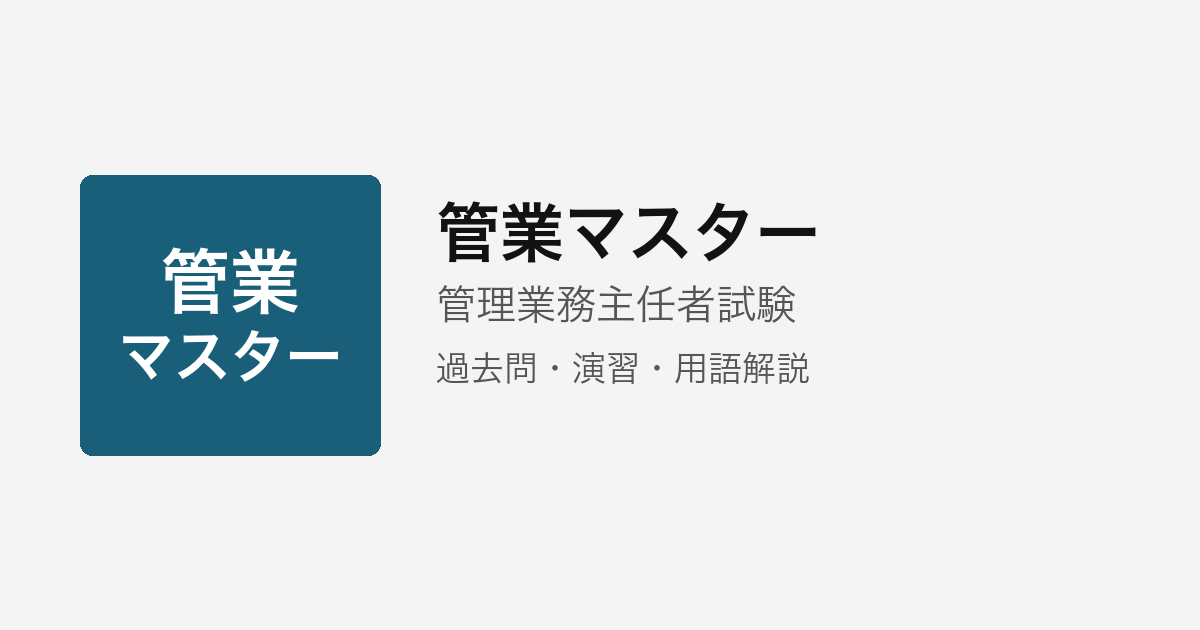
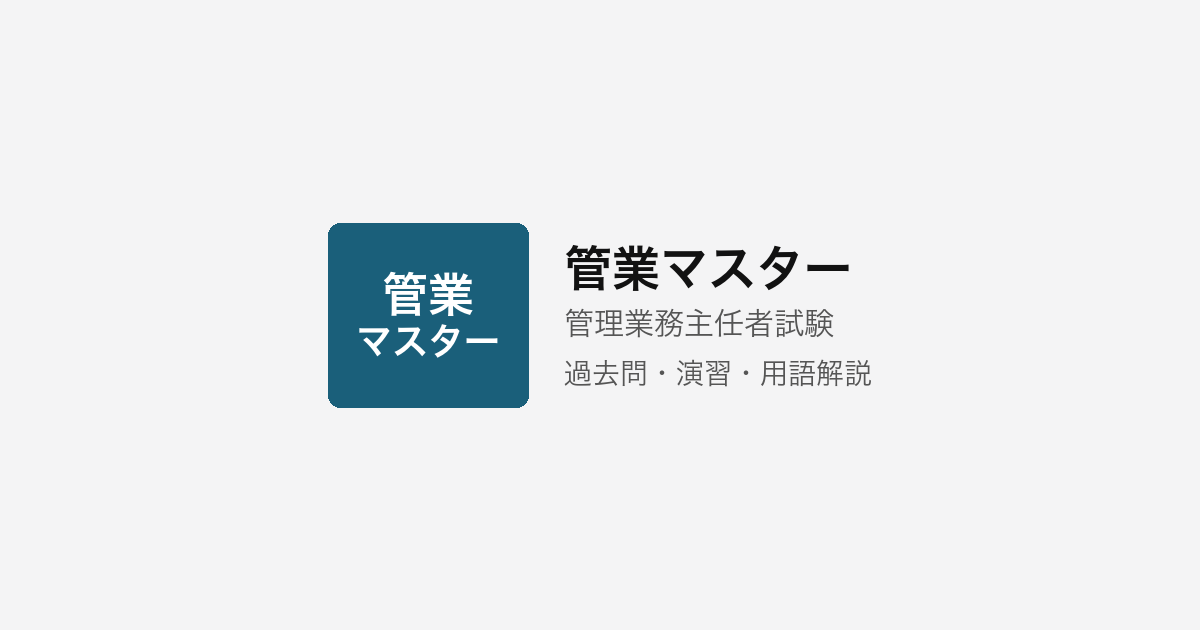
fix: OGP 画像の見切れを修正（中央安全域レイアウト）
SNS プレビューの 1:1 クロップでもロゴが切れないよう再生成した。

Changed region(s): [[0.0617, 0.2714, 0.74, 0.7238]]

diff --git a/tools/brand_assets.py b/tools/brand_assets.py
@@ -20,6 +20,10 @@ from tools.site_config import (
 
 BRAND_DIR = "assets/brand"
 MARKER = "<!--BRAND_ASSET_HEAD-->"
+OG_WIDTH = 1200
+OG_HEIGHT = 630
+# SNS の 1:1 中央クロップ（630×630）でも切れないよう、コンテンツ幅をこの範囲に収める
+OG_SAFE_WIDTH = 620
 
 
 def _font_candidates(*, bold: bool) -> list[Path]:
@@ -172,42 +176,130 @@ def render_favicon(size: int):
 def render_og_image():
     from PIL import Image, ImageDraw
 
-    w, h = 1200, 630
+    w, h = OG_WIDTH, OG_HEIGHT
     top, bottom = brand_logo_lines()
     name = brand_name()
     exam = exam_name()
+    tagline = "過去問・演習・用語解説"
     bg = theme_page_bg()
     ink = theme_ink()
-    text = theme_text()
+    text_col = theme_text()
     muted = theme_text_muted()
+
+    measure = Image.new("RGB", (w, h), bg)
+    mdraw = ImageDraw.Draw(measure)
+
+    gap = 36
+    name_gap, exam_gap = 16, 22
+    layout = None
+    for box_w in (200, 180, 160, 140, 120):
+        box_h = max(110, int(box_w * 0.92))
+        text_max_w = OG_SAFE_WIDTH - box_w - gap
+        name_font, name_size = _fit_font(mdraw, name, text_max_w, 48, bold=True)
+        exam_font, exam_size = _fit_font(mdraw, exam, text_max_w, 30, bold=False)
+        tag_font, tag_size = _fit_font(mdraw, tagline, text_max_w, 28, bold=False)
+        text_w = max(
+            mdraw.textlength(name, font=name_font),
+            mdraw.textlength(exam, font=exam_font),
+            mdraw.textlength(tagline, font=tag_font),
+        )
+        text_h = name_size + name_gap + exam_size + exam_gap + tag_size
+        content_w = box_w + gap + int(text_w)
+        content_h = max(box_h, text_h)
+        if content_w <= OG_SAFE_WIDTH:
+            layout = {
+                "box_w": box_w,
+                "box_h": box_h,
+                "gap": gap,
+                "name_font": name_font,
+                "name_size": name_size,
+                "exam_font": exam_font,
+                "exam_size": exam_size,
+                "tag_font": tag_font,
+                "tag_size": tag_size,
+                "text_h": text_h,
+                "content_w": content_w,
+                "content_h": content_h,
+            }
+            break
 
     img = Image.new("RGB", (w, h), bg)
     draw = ImageDraw.Draw(img)
 
-    box_w, box_h = 300, 280
-    box_x, box_y = 80, (h - box_h) // 2
+    if layout is None:
+        # 横並びが収まらない場合: ロゴ＋テキストを縦積みで中央配置
+        mark_w, mark_h = 220, 200
+        text_max_w = OG_SAFE_WIDTH - 40
+        name_font, name_size = _fit_font(mdraw, name, text_max_w, 44, bold=True)
+        exam_font, exam_size = _fit_font(mdraw, exam, text_max_w, 28, bold=False)
+        tag_font, tag_size = _fit_font(mdraw, tagline, text_max_w, 26, bold=False)
+        stack_gap, line_gap = 28, 14
+        content_w = int(
+            max(
+                mark_w,
+                mdraw.textlength(name, font=name_font),
+                mdraw.textlength(exam, font=exam_font),
+                mdraw.textlength(tagline, font=tag_font),
+            )
+        )
+        content_h = mark_h + stack_gap + name_size + line_gap + exam_size + line_gap + tag_size
+        block_x = (w - content_w) // 2
+        block_y = (h - content_h) // 2
+        _draw_logo_mark(
+            draw,
+            x=block_x + (content_w - mark_w) // 2,
+            y=block_y,
+            width=mark_w,
+            height=mark_h,
+            top=top,
+            bottom=bottom,
+            bg=ink,
+            fg="#ffffff",
+            radius=12,
+        )
+        ty = block_y + mark_h + stack_gap
+        draw.text((block_x + (content_w - mdraw.textlength(name, font=name_font)) / 2, ty), name, fill=text_col, font=name_font)
+        ty += name_size + line_gap
+        draw.text((block_x + (content_w - mdraw.textlength(exam, font=exam_font)) / 2, ty), exam, fill=muted, font=exam_font)
+        ty += exam_size + line_gap
+        draw.text((block_x + (content_w - mdraw.textlength(tagline, font=tag_font)) / 2, ty), tagline, fill=muted, font=tag_font)
+        return img
+
+    block_x = (w - layout["content_w"]) // 2
+    block_y = (h - layout["content_h"]) // 2
+    box_x = block_x
+    box_y = block_y + (layout["content_h"] - layout["box_h"]) // 2
+    tx = block_x + layout["box_w"] + layout["gap"]
+    ty = block_y + (layout["content_h"] - layout["text_h"]) // 2
+
     _draw_logo_mark(
         draw,
         x=box_x,
         y=box_y,
-        width=box_w,
-        height=box_h,
+        width=layout["box_w"],
+        height=layout["box_h"],
         top=top,
         bottom=bottom,
         bg=ink,
         fg="#ffffff",
         radius=12,
     )
-
-    tx = box_x + box_w + 56
-    name_font, name_size = _fit_font(draw, name, w - tx - 80, 64, bold=True)
-    exam_font, exam_size = _fit_font(draw, exam, w - tx - 80, 40, bold=False)
-    tagline = "過去問・演習・用語解説"
-    tag_font, _ = _fit_font(draw, tagline, w - tx - 80, 34, bold=False)
-
-    draw.text((tx, box_y + 24), name, fill=text, font=name_font)
-    draw.text((tx, box_y + 24 + name_size + 20), exam, fill=muted, font=exam_font)
-    draw.text((tx, box_y + 24 + name_size + 20 + exam_size + 28), tagline, fill=muted, font=tag_font)
+    draw.text((tx, ty), name, fill=text_col, font=layout["name_font"])
+    draw.text(
+        (tx, ty + layout["name_size"] + name_gap),
+        exam,
+        fill=muted,
+        font=layout["exam_font"],
+    )
+    draw.text(
+        (
+            tx,
+            ty + layout["name_size"] + name_gap + layout["exam_size"] + exam_gap,
+        ),
+        tagline,
+        fill=muted,
+        font=layout["tag_font"],
+    )
     return img
 
 
